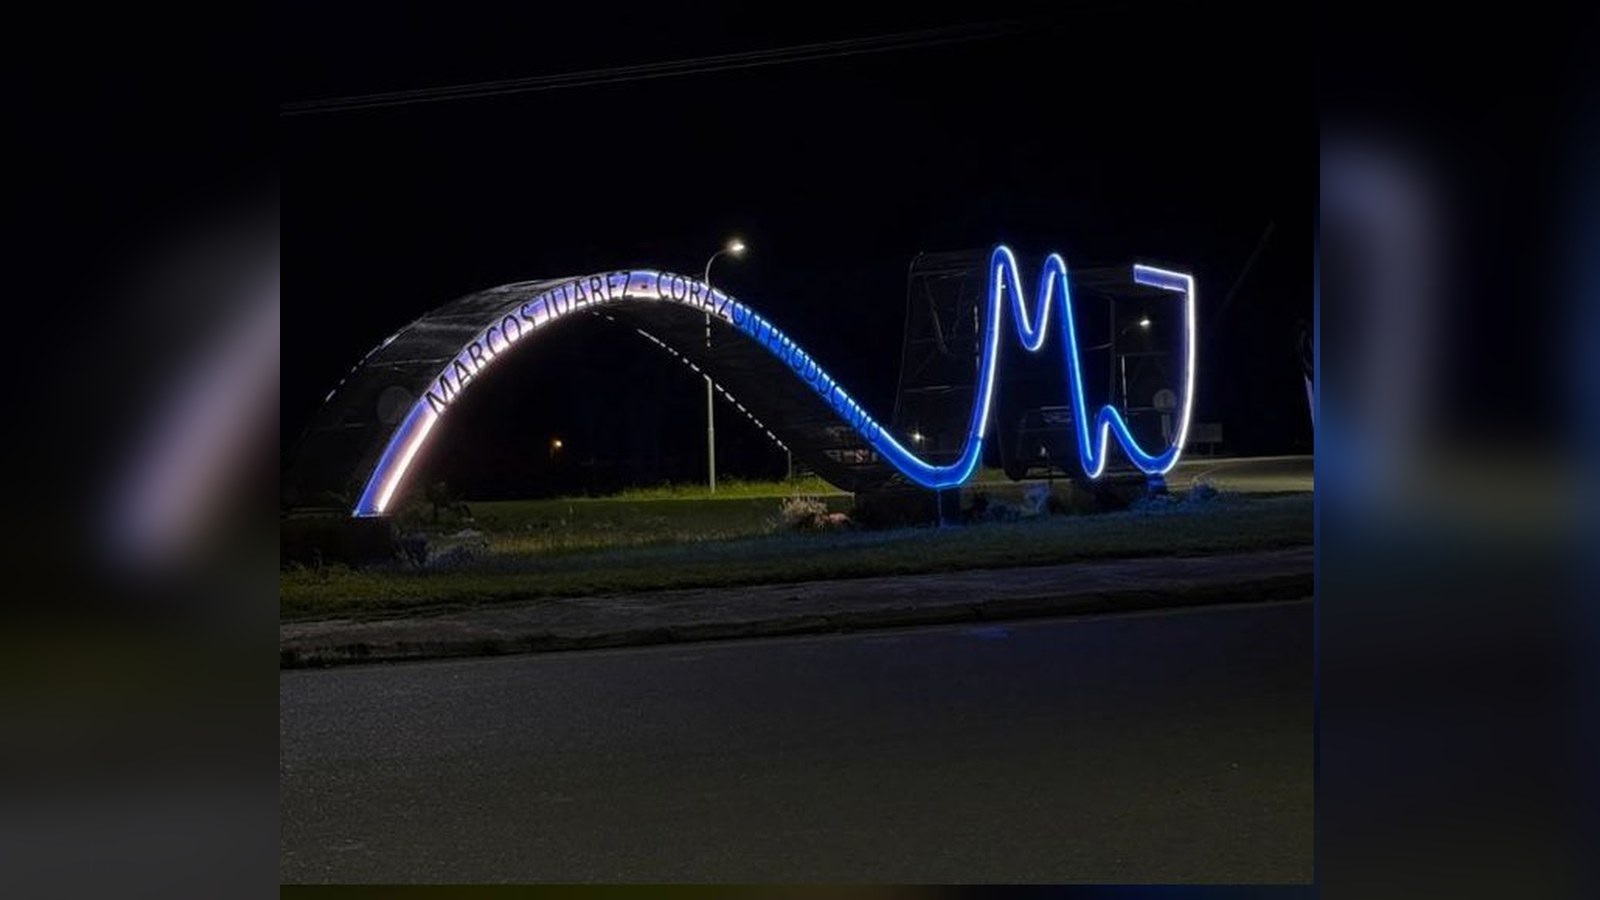
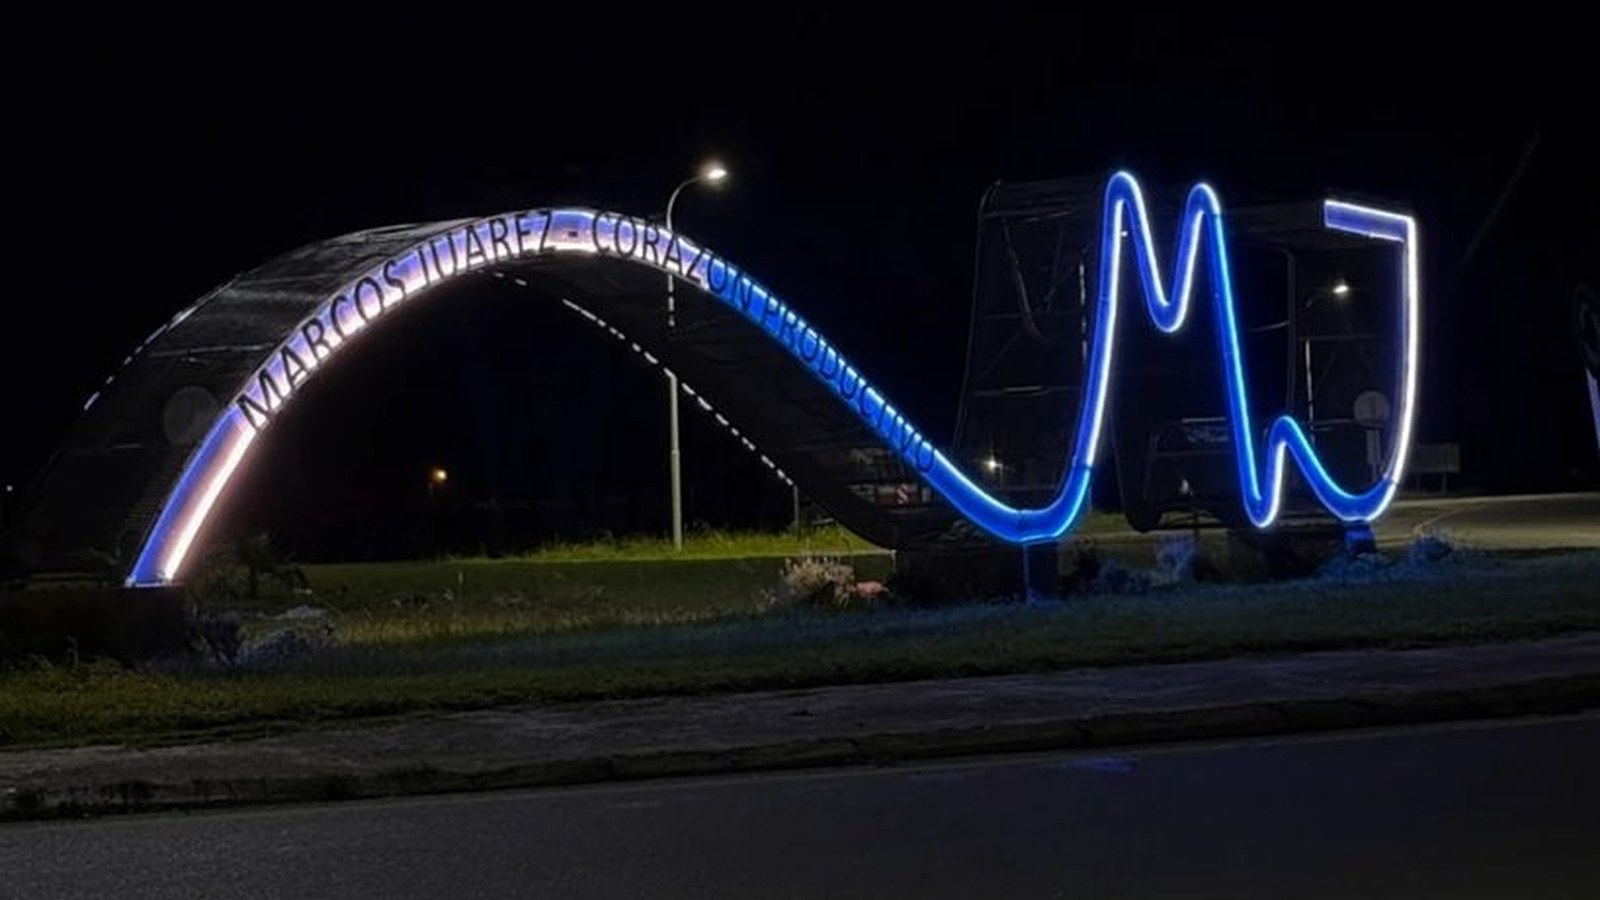
Rotonda sur: las dos fotos del cartel
La portada pasa a ser el plano general sin el rotulo, en mejor
resolucion, y el cuerpo suma el primer plano de las letras. Las fotos
verticales del cuerpo quedan centradas y con tope de alto.

Claude-Session: https://claude.ai/code/session_01NktL93t9DX94HL6BaasW91

diff --git a/src/content/notas/rotonda-sur-iluminacion-cartel-ingreso-marcos-juarez.md b/src/content/notas/rotonda-sur-iluminacion-cartel-ingreso-marcos-juarez.md
@@ -23,6 +23,8 @@ Los accesos funcionan como primera impresión de una ciudad. Quien llega de noch
 
 Desde el municipio ubicaron el trabajo dentro de una serie de acciones destinadas a mejorar la imagen de los espacios públicos. La lógica es la misma que viene guiando otras intervenciones urbanas: poner en valor los puntos que la gente usa y mira todos los días, empezando por los que marcan el límite entre la ruta y la ciudad.
 
+![Las letras MJ del cartel de ingreso, iluminadas de noche en la rotonda sur de Marcos Juárez](./img/rotonda-sur-letras-mj-marcos-juarez.jpg)
+
 ## Qué cambia en el día a día
 
 El efecto más inmediato es de visibilidad. Un cartel iluminado se lee desde más lejos y ordena la llegada: indica dónde termina el camino y dónde empieza Marcos Juárez. En una rotonda, donde el conductor tiene que decidir rápido por dónde salir, cualquier referencia que se vea bien suma.
